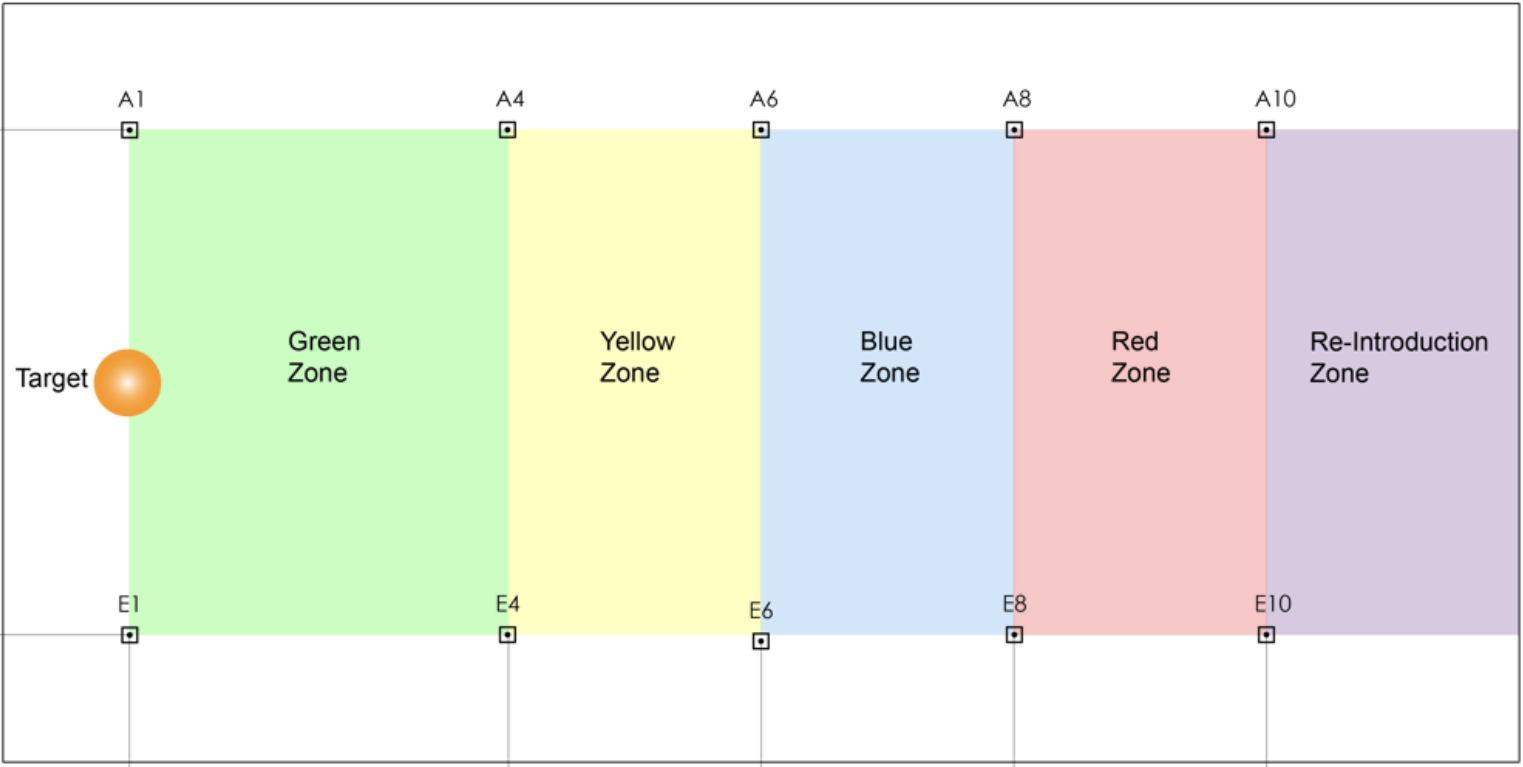
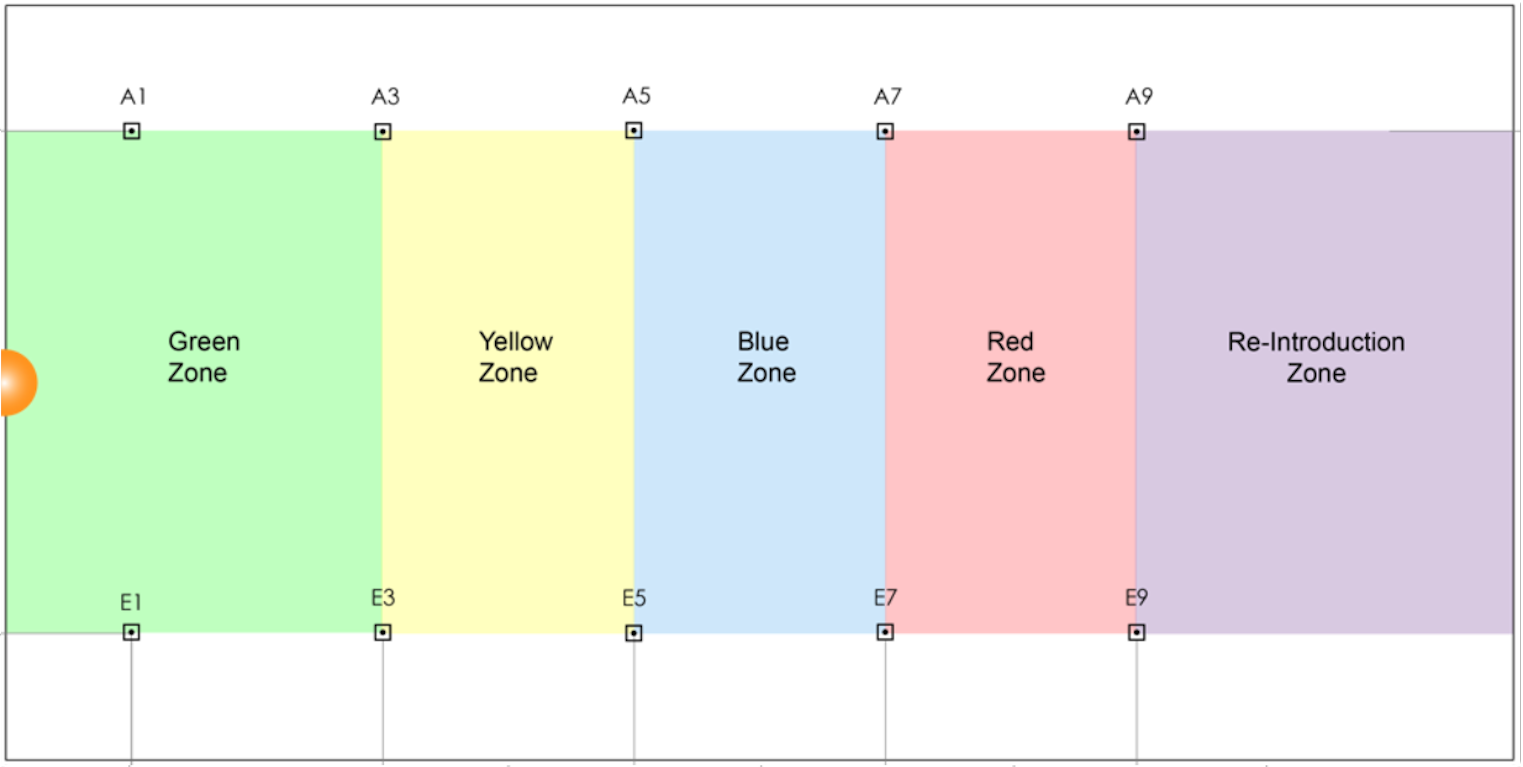
IA Pathing

diff --git a/src/main/cpp/Robot.cpp b/src/main/cpp/Robot.cpp
@@ -35,6 +35,7 @@ public:
     m_chooser.AddOption("Barrel", "Barrel");
     m_chooser.AddOption("Slalom", "Slalom");
     m_chooser.AddOption("Bounce", "Bounce");
+    m_chooser.AddOption("Accuracy", "Accuracy");
     m_chooser.AddOption("PowerPort", "PowerPort");
     frc::SmartDashboard::PutData(&m_chooser);
 
@@ -48,7 +49,6 @@ public:
 
     frc::SmartDashboard::PutNumber("m_autoState", m_autoState);
     frc::SmartDashboard::PutNumber("m_autoTimer", m_autoTimer.Get().value());
-    
   }
 
   void AutonomousInit() override
@@ -166,6 +166,98 @@ public:
       // Save this Trajectory
       m_trajectory = frc::Trajectory(s1);
     }
+    else if (path == "Accuracy")
+    {
+      frc::Pose2d green{60_in, 90_in, 0_deg};
+      frc::Pose2d yellow{120_in, 90_in, 0_deg};
+      frc::Pose2d blue{180_in, 90_in, 0_deg};
+      frc::Pose2d red{240_in, 90_in, 0_deg};
+      frc::Pose2d load{300_in, 90_in, 0_deg};
+      frc::TrajectoryConfig config(Drivetrain::kMaxSpeed * 0.8, 5_fps_sq);
+
+      // Green -> Load
+      config.SetReversed(false);
+      m_trajectory_IA[0] = frc::TrajectoryGenerator::GenerateTrajectory(
+          green,
+          {},
+          load,
+          config);
+
+      // Load -> Yellow 1
+      config.SetReversed(!config.IsReversed());
+      m_trajectory_IA[1] = frc::TrajectoryGenerator::GenerateTrajectory(
+          load,
+          {},
+          yellow,
+          config);
+
+      // Yellow -> Load
+      config.SetReversed(!config.IsReversed());
+      m_trajectory_IA[2] = frc::TrajectoryGenerator::GenerateTrajectory(
+          yellow,
+          {},
+          load,
+          config);
+
+      // Load -> Yellow 2
+      config.SetReversed(!config.IsReversed());
+      m_trajectory_IA[3] = frc::TrajectoryGenerator::GenerateTrajectory(
+          load,
+          {},
+          yellow,
+          config);
+
+      // Yellow -> Load
+      config.SetReversed(!config.IsReversed());
+      m_trajectory_IA[4] = frc::TrajectoryGenerator::GenerateTrajectory(
+          yellow,
+          {},
+          load,
+          config);
+
+      // Load -> Blue
+      config.SetReversed(!config.IsReversed());
+      m_trajectory_IA[5] = frc::TrajectoryGenerator::GenerateTrajectory(
+          load,
+          {},
+          blue,
+          config);
+
+      // blue -> Load
+      config.SetReversed(!config.IsReversed());
+      m_trajectory_IA[6] = frc::TrajectoryGenerator::GenerateTrajectory(
+          blue,
+          {},
+          load,
+          config);
+
+      // Load -> Red
+      config.SetReversed(!config.IsReversed());
+      m_trajectory_IA[7] = frc::TrajectoryGenerator::GenerateTrajectory(
+          load,
+          {},
+          red,
+          config);
+
+      // Red -> Load
+      config.SetReversed(!config.IsReversed());
+      m_trajectory_IA[8] = frc::TrajectoryGenerator::GenerateTrajectory(
+          red,
+          {},
+          load,
+          config);
+
+      // Load -> Green
+      config.SetReversed(!config.IsReversed());
+      m_trajectory_IA[9] = frc::TrajectoryGenerator::GenerateTrajectory(
+          load,
+          {},
+          green,
+          config);
+
+      // Cheat to load initial pose correclty
+      m_trajectory = m_trajectory_IA[0];
+    }
     else if (path == "PowerPort")
     {
       frc::Pose2d shoot{120_in, 90_in, 0_deg};
@@ -231,6 +323,10 @@ public:
     {
       AutoPowerPort();
     }
+    else if (path == "Accuracy")
+    {
+      AutoAccuracy();
+    }
     else
     {
       auto elapsed = m_autoTimer.Get();
@@ -268,46 +364,68 @@ public:
 
   void SimulationPeriodic() override { m_drive.SimulationPeriodic(); }
 
-  void AutoPowerPort() {
+  void AutoPowerPort()
+  {
 
-      auto delay = units::second_t(prefs->GetDouble("PP_Delay", 3.0));
+    auto delay = units::second_t(prefs->GetDouble("Load_Delay", 3.0));
 
-      if (m_autoState == 0)
+    if (m_autoState == 0)
+    {
+      // Go To reload
+      auto elapsed = m_autoTimer.Get();
+      auto reference = m_trajectory.Sample(elapsed);
+      auto speeds = m_ramsete.Calculate(m_drive.GetPose(), reference);
+      m_drive.Drive(speeds.vx, speeds.omega);
+
+      // Next State
+      if (elapsed > (m_trajectory.TotalTime() + delay))
       {
-        // Go To reload
-        auto elapsed = m_autoTimer.Get();
-        auto reference = m_trajectory.Sample(elapsed);
-        auto speeds = m_ramsete.Calculate(m_drive.GetPose(), reference);
-        m_drive.Drive(speeds.vx, speeds.omega);
+        m_autoState = 1;
+        m_autoTimer.Reset();
+        m_autoTimer.Start();
+      }
+    }
+    else if (m_autoState == 1)
+    {
+      // Go To Shoot
+      auto elapsed = m_autoTimer.Get();
+      auto reference = m_trajectory_PP.Sample(elapsed);
+      auto speeds = m_ramsete.Calculate(m_drive.GetPose(), reference);
+      m_drive.Drive(speeds.vx, speeds.omega);
 
-        // Next State
-        if (elapsed > (m_trajectory.TotalTime() + delay))
-        {
-          m_autoState = 1;
-          m_autoTimer.Reset();
-          m_autoTimer.Start();
-        }
-      }
-      else if (m_autoState == 1)
+      // Next State
+      if (elapsed > m_trajectory_PP.TotalTime() + delay)
       {
-        // Go To Shoot
-        auto elapsed = m_autoTimer.Get();
-        auto reference = m_trajectory_PP.Sample(elapsed);
-        auto speeds = m_ramsete.Calculate(m_drive.GetPose(), reference);
-        m_drive.Drive(speeds.vx, speeds.omega);
+        m_autoState = 0;
+        m_autoTimer.Reset();
+        m_autoTimer.Start();
+      }
+    }
+    else
+    {
+      m_drive.Drive(0_mps, 0_deg_per_s);
+    }
+  }
 
-        // Next State
-        if (elapsed > m_trajectory_PP.TotalTime() + delay)
-        {
-          m_autoState = 0;
-          m_autoTimer.Reset();
-          m_autoTimer.Start();
-        }
-      }
-      else
-      {
-        m_drive.Drive(0_mps, 0_deg_per_s);
-      }
+  void AutoAccuracy()
+  {
+    // Load Delay
+    auto delay = units::second_t(prefs->GetDouble("Load_Delay", 3.0));
+
+    // Pathing
+    auto elapsed = m_autoTimer.Get();
+    auto reference = m_trajectory_IA[m_autoState].Sample(elapsed);
+    auto speeds = m_ramsete.Calculate(m_drive.GetPose(), reference);
+    m_drive.Drive(speeds.vx, speeds.omega);
+
+    // Next State
+    if (elapsed > (m_trajectory_IA[m_autoState].TotalTime() + delay))
+    {
+      m_autoState++;
+      m_autoState %= 10;
+      m_autoTimer.Reset();
+      m_autoTimer.Start();
+    }
   }
 
 private:
@@ -322,6 +440,7 @@ private:
 
   frc::Trajectory m_trajectory;
   frc::Trajectory m_trajectory_PP;
+  frc::Trajectory m_trajectory_IA[10];
   frc::RamseteController m_ramsete;
   frc2::Timer m_autoTimer;
 

diff --git a/src/main/include/Drivetrain.h b/src/main/include/Drivetrain.h
@@ -158,12 +158,17 @@ private:
         frc::SPI::Port::kMXP,
         frc::ADIS16470CalibrationTime::_512ms};
 #endif
-
+    
+    //
+    // Dynamics
+    //
     frc::DifferentialDriveKinematics m_kinematics{kTrackWidth};
     frc::DifferentialDriveOdometry m_odometry{m_gyro.GetRotation2d()};
     frc::SimpleMotorFeedforward<units::meters> m_feedforward{kStatic, kVlinear, kAlinear};
 
-    // Simulation classes help us simulate our robot
+    //
+    // Simulation 
+    //
     frc::LinearSystem<2, 2, 2> m_drivetrainSystem =
         frc::LinearSystemId::IdentifyDrivetrainSystem(
             kVlinear, kAlinear,
